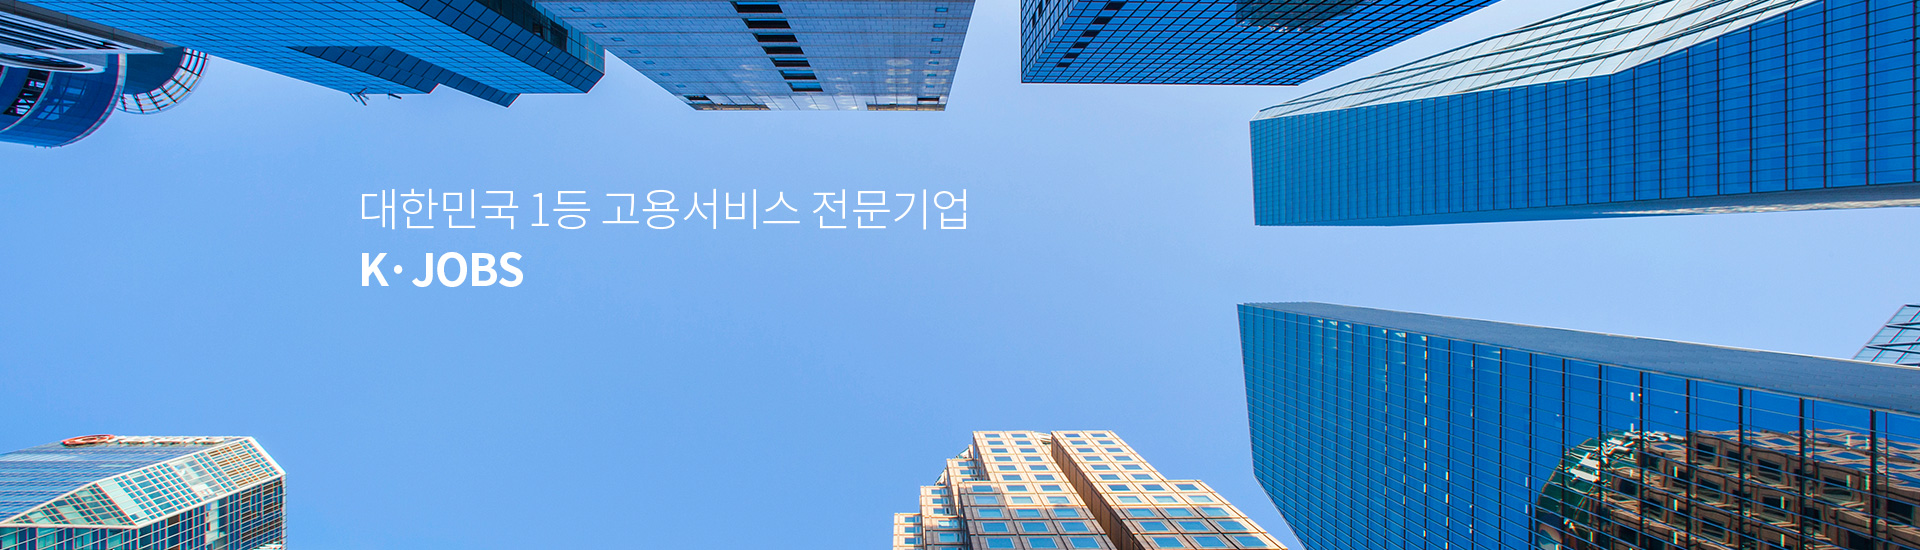
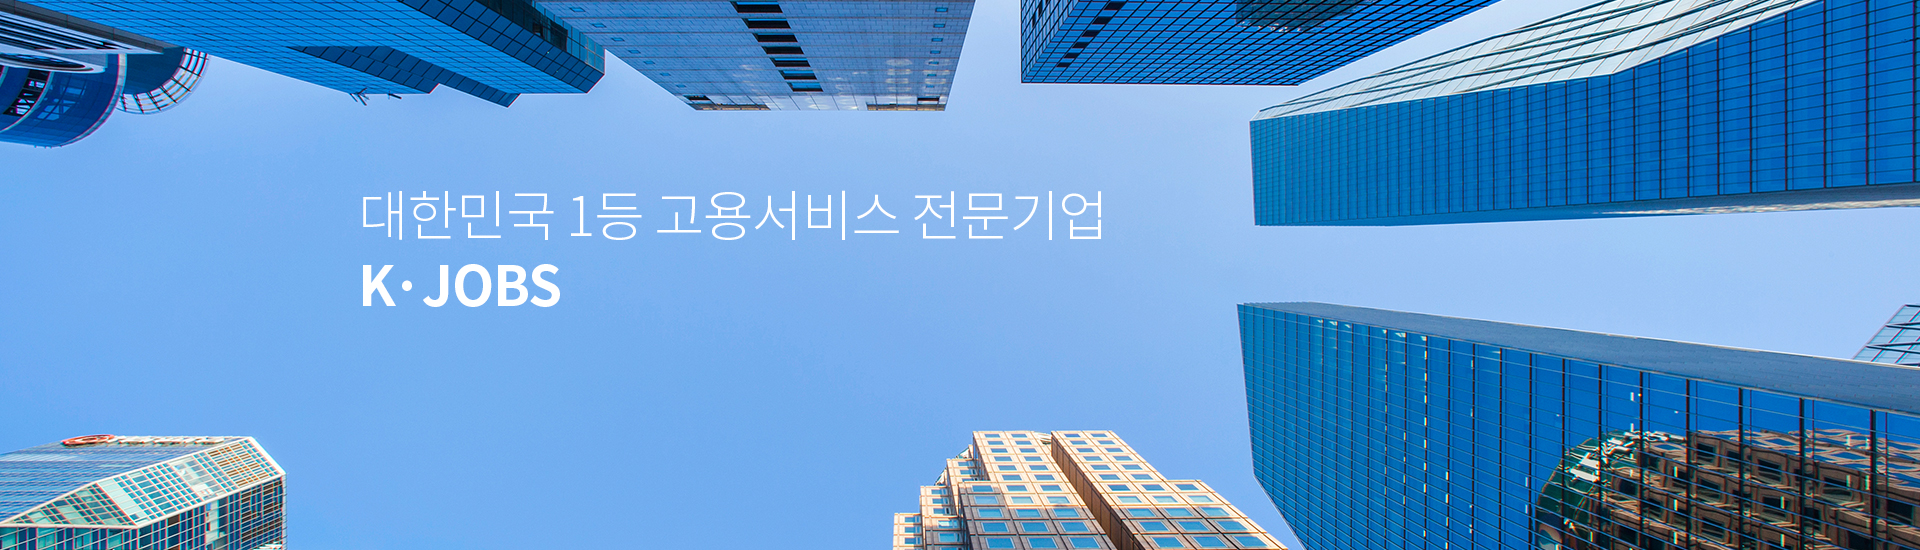
영문/이미지/텍스트 수정

Changed region(s): [[0.1875, 0.34, 0.5938, 0.5564]]

diff --git a/src/main/webapp/resources/front/css/style.css b/src/main/webapp/resources/front/css/style.css
@@ -70,7 +70,7 @@
 #header > .inner .gnb .inner > ul{}
 #header > .inner .gnb .inner > ul:after{content:'';display:block;clear:both;}
 #header > .inner .gnb .inner > ul > li{float:left;width:20%;text-align:center;}
-#header > .inner .gnb .inner > ul > li > a{font-size:16px;color:#222;line-height:80px;line-height:78px;display:inline-block;position:relative;}
+#header > .inner .gnb .inner > ul > li > a{font-size:18px;color:#222;line-height:80px;line-height:78px;display:inline-block;position:relative;}
 #header > .inner .gnb .inner > ul > li > a.on:after{content:'';display:block;width:100%;height:3px;background:#004ea2}
 #header > .inner .gnb .inner > ul > li .gnb_sub{display:none;position:absolute;left:0;right:0;top:80px;z-index:10001}
 #header > .inner .gnb .inner > ul > li .gnb_sub > ul > li{display:inline-block;text-align:left;padding:0 40px;vertical-align:top;}
@@ -260,7 +260,7 @@
 .greetings_wrap .inner h3{font-size:30px;color:#222;line-height:130%;padding-bottom:50px;margin-bottom:50px;font-weight:300;letter-spacing:-1px;position:relative;}
 .greetings_wrap .inner h3:after{content:'';display:block;position:absolute;left:0;bottom:0;width:50px;height:1px;background:#111;}
 .greetings_wrap .inner h3 span{color:#004ea2}
-.greetings_wrap .inner .txt{font-size:16px;color:#666;line-height:180%;letter-spacing:-1px;padding-bottom:40px;}
+.greetings_wrap .inner .txt{font-size:18px;color:#666;line-height:180%;letter-spacing:-1px;padding-bottom:40px;}
 .greetings_wrap .inner .txt p{padding-bottom:25px;}
 .greetings_wrap .inner .sign{font-size:20px;color:#666;line-height:60px;}
 .greetings_wrap .inner .sign img{vertical-align:top;margin-left:20px;}
@@ -1055,7 +1055,7 @@
 	.location_wrap .inner .select_area select{height:35px;line-height:35px;font-size:12px;}
 	.location_wrap .inner .tab_area ul li a{height:35px;line-height:35px;font-size:12px;}
 	.location_wrap .inner .map_area .map{height:200px;}
-	
+
 	.login_wrap{padding:30px 15px;}
 	.login_wrap .path{display:none;}
 	.login_wrap .login_form{width:auto;padding:20px 15px;height:auto;}

diff --git a/src/main/webapp/resources/en/css/style.css b/src/main/webapp/resources/en/css/style.css
@@ -70,7 +70,7 @@
 #header > .inner .gnb .inner > ul{}
 #header > .inner .gnb .inner > ul:after{content:'';display:block;clear:both;}
 #header > .inner .gnb .inner > ul > li{float:left;width:20%;text-align:center;}
-#header > .inner .gnb .inner > ul > li > a{font-size:16px;color:#222;line-height:80px;line-height:78px;display:inline-block;position:relative;}
+#header > .inner .gnb .inner > ul > li > a{font-size:18px;color:#222;line-height:80px;line-height:78px;display:inline-block;position:relative;}
 #header > .inner .gnb .inner > ul > li > a.on:after{content:'';display:block;width:100%;height:3px;background:#004ea2}
 #header > .inner .gnb .inner > ul > li .gnb_sub{display:none;position:absolute;left:0;right:0;top:80px;z-index:10001}
 #header > .inner .gnb .inner > ul > li .gnb_sub > ul > li{display:inline-block;text-align:left;padding:0 40px;vertical-align:top;}
@@ -1055,7 +1055,7 @@
 	.location_wrap .inner .select_area select{height:35px;line-height:35px;font-size:12px;}
 	.location_wrap .inner .tab_area ul li a{height:35px;line-height:35px;font-size:12px;}
 	.location_wrap .inner .map_area .map{height:200px;}
-	
+
 	.login_wrap{padding:30px 15px;}
 	.login_wrap .path{display:none;}
 	.login_wrap .login_form{width:auto;padding:20px 15px;height:auto;}
